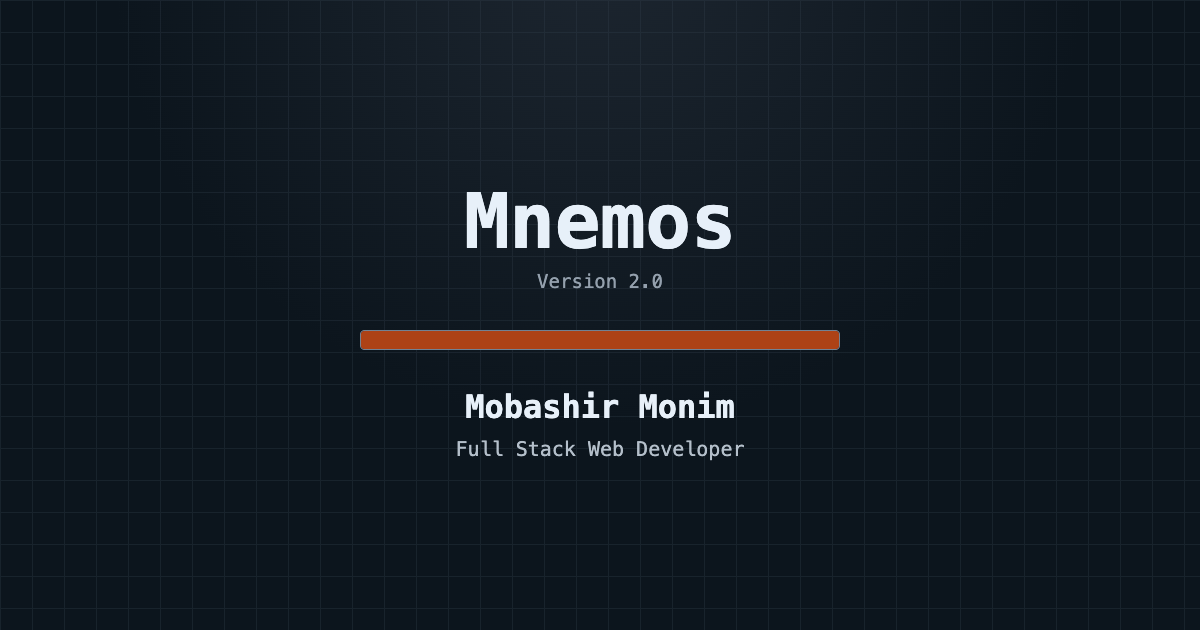
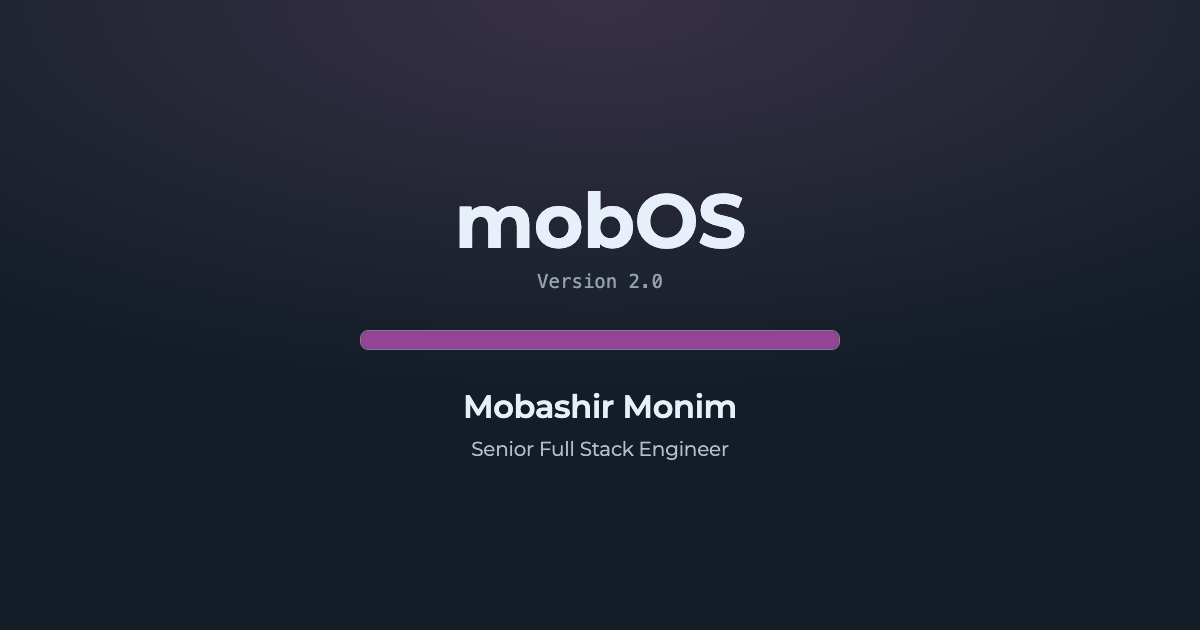
Update og

diff --git a/v2/src/lib/og.test.ts b/v2/src/lib/og.test.ts
@@ -1,0 +1,71 @@
+import { describe, expect, test } from 'bun:test';
+import { about } from './content/about';
+import { OS_NAME, OS_VERSION } from './os';
+import { PERSON } from './seo';
+
+/**
+ * The share card, held to the strings it is a picture of.
+ *
+ * `scripts/og.svg` is hand-drawn, and `static/og.png` is baked from it by the recipe in its own
+ * `<desc>`. That is two copies of every word on the card and nothing in the build reads either,
+ * so a rename lands everywhere except here: the card shipped a whole phase reading `Mnemos`,
+ * in the old default dress, while `Head.svelte` was already promising `mobOS` in `og:image:alt`.
+ *
+ * What is checkable in text is the wording. The PNG cannot be, so the SVG stands in for it and
+ * the file says to re-bake. The dress cannot be either, since a hex here is a token value copied
+ * by hand and comparing it to `app.css` would only prove the copy was taken, not that the right
+ * block was read.
+ */
+
+const svg = await Bun.file(new URL('../../scripts/og.svg', import.meta.url)).text();
+
+/** Text nodes only. A `<title>`, a `<desc>`, and every `<text>` the card draws. */
+const words = svg
+	.replace(/<!--[\s\S]*?-->/g, '')
+	.replace(/<style>[\s\S]*?<\/style>/g, '')
+	.replace(/<[^>]*>/g, '\n')
+	.split('\n')
+	.map((line) => line.trim())
+	.filter(Boolean);
+
+describe('the share card says what the site says', () => {
+	test('the wordmark is the OS name, not whatever it was called last', () => {
+		expect(words).toContain(OS_NAME);
+	});
+
+	test('the version line matches the OS version', () => {
+		expect(words).toContain(`Version ${OS_VERSION}`);
+	});
+
+	test.each([
+		['the person', PERSON],
+		['the title', about.title]
+	])('%s on the card is the one `og:image:alt` promises', (_, value) => {
+		expect(words).toContain(value);
+	});
+});
+
+describe('the card can be baked at all', () => {
+	/*
+	 * An XML comment may not contain two consecutive hyphens, which a token name is made of. Get
+	 * that wrong and Chrome screenshots its own parser error page: the bake reports bytes written
+	 * and the card ships as a red box of error text. It looks exactly like a successful bake.
+	 */
+	test('no comment carries a double hyphen', () => {
+		const offenders = [...svg.matchAll(/<!--[\s\S]*?-->/g)]
+			.map((m) => m[0])
+			.filter((comment) => comment.slice(4, -3).includes('--'));
+		expect(offenders).toEqual([]);
+	});
+
+	test('the font it sets the wordmark in is on disk', async () => {
+		const src = svg.match(/url\('([^']+\.woff2)'\)/)?.[1];
+		expect(src).toBeString();
+		const file = Bun.file(new URL(`../../scripts/${src}`, import.meta.url));
+		expect(await file.exists()).toBe(true);
+	});
+
+	test('the baked PNG is there for `og:image` to point at', async () => {
+		expect(await Bun.file(new URL('../../static/og.png', import.meta.url)).exists()).toBe(true);
+	});
+});
